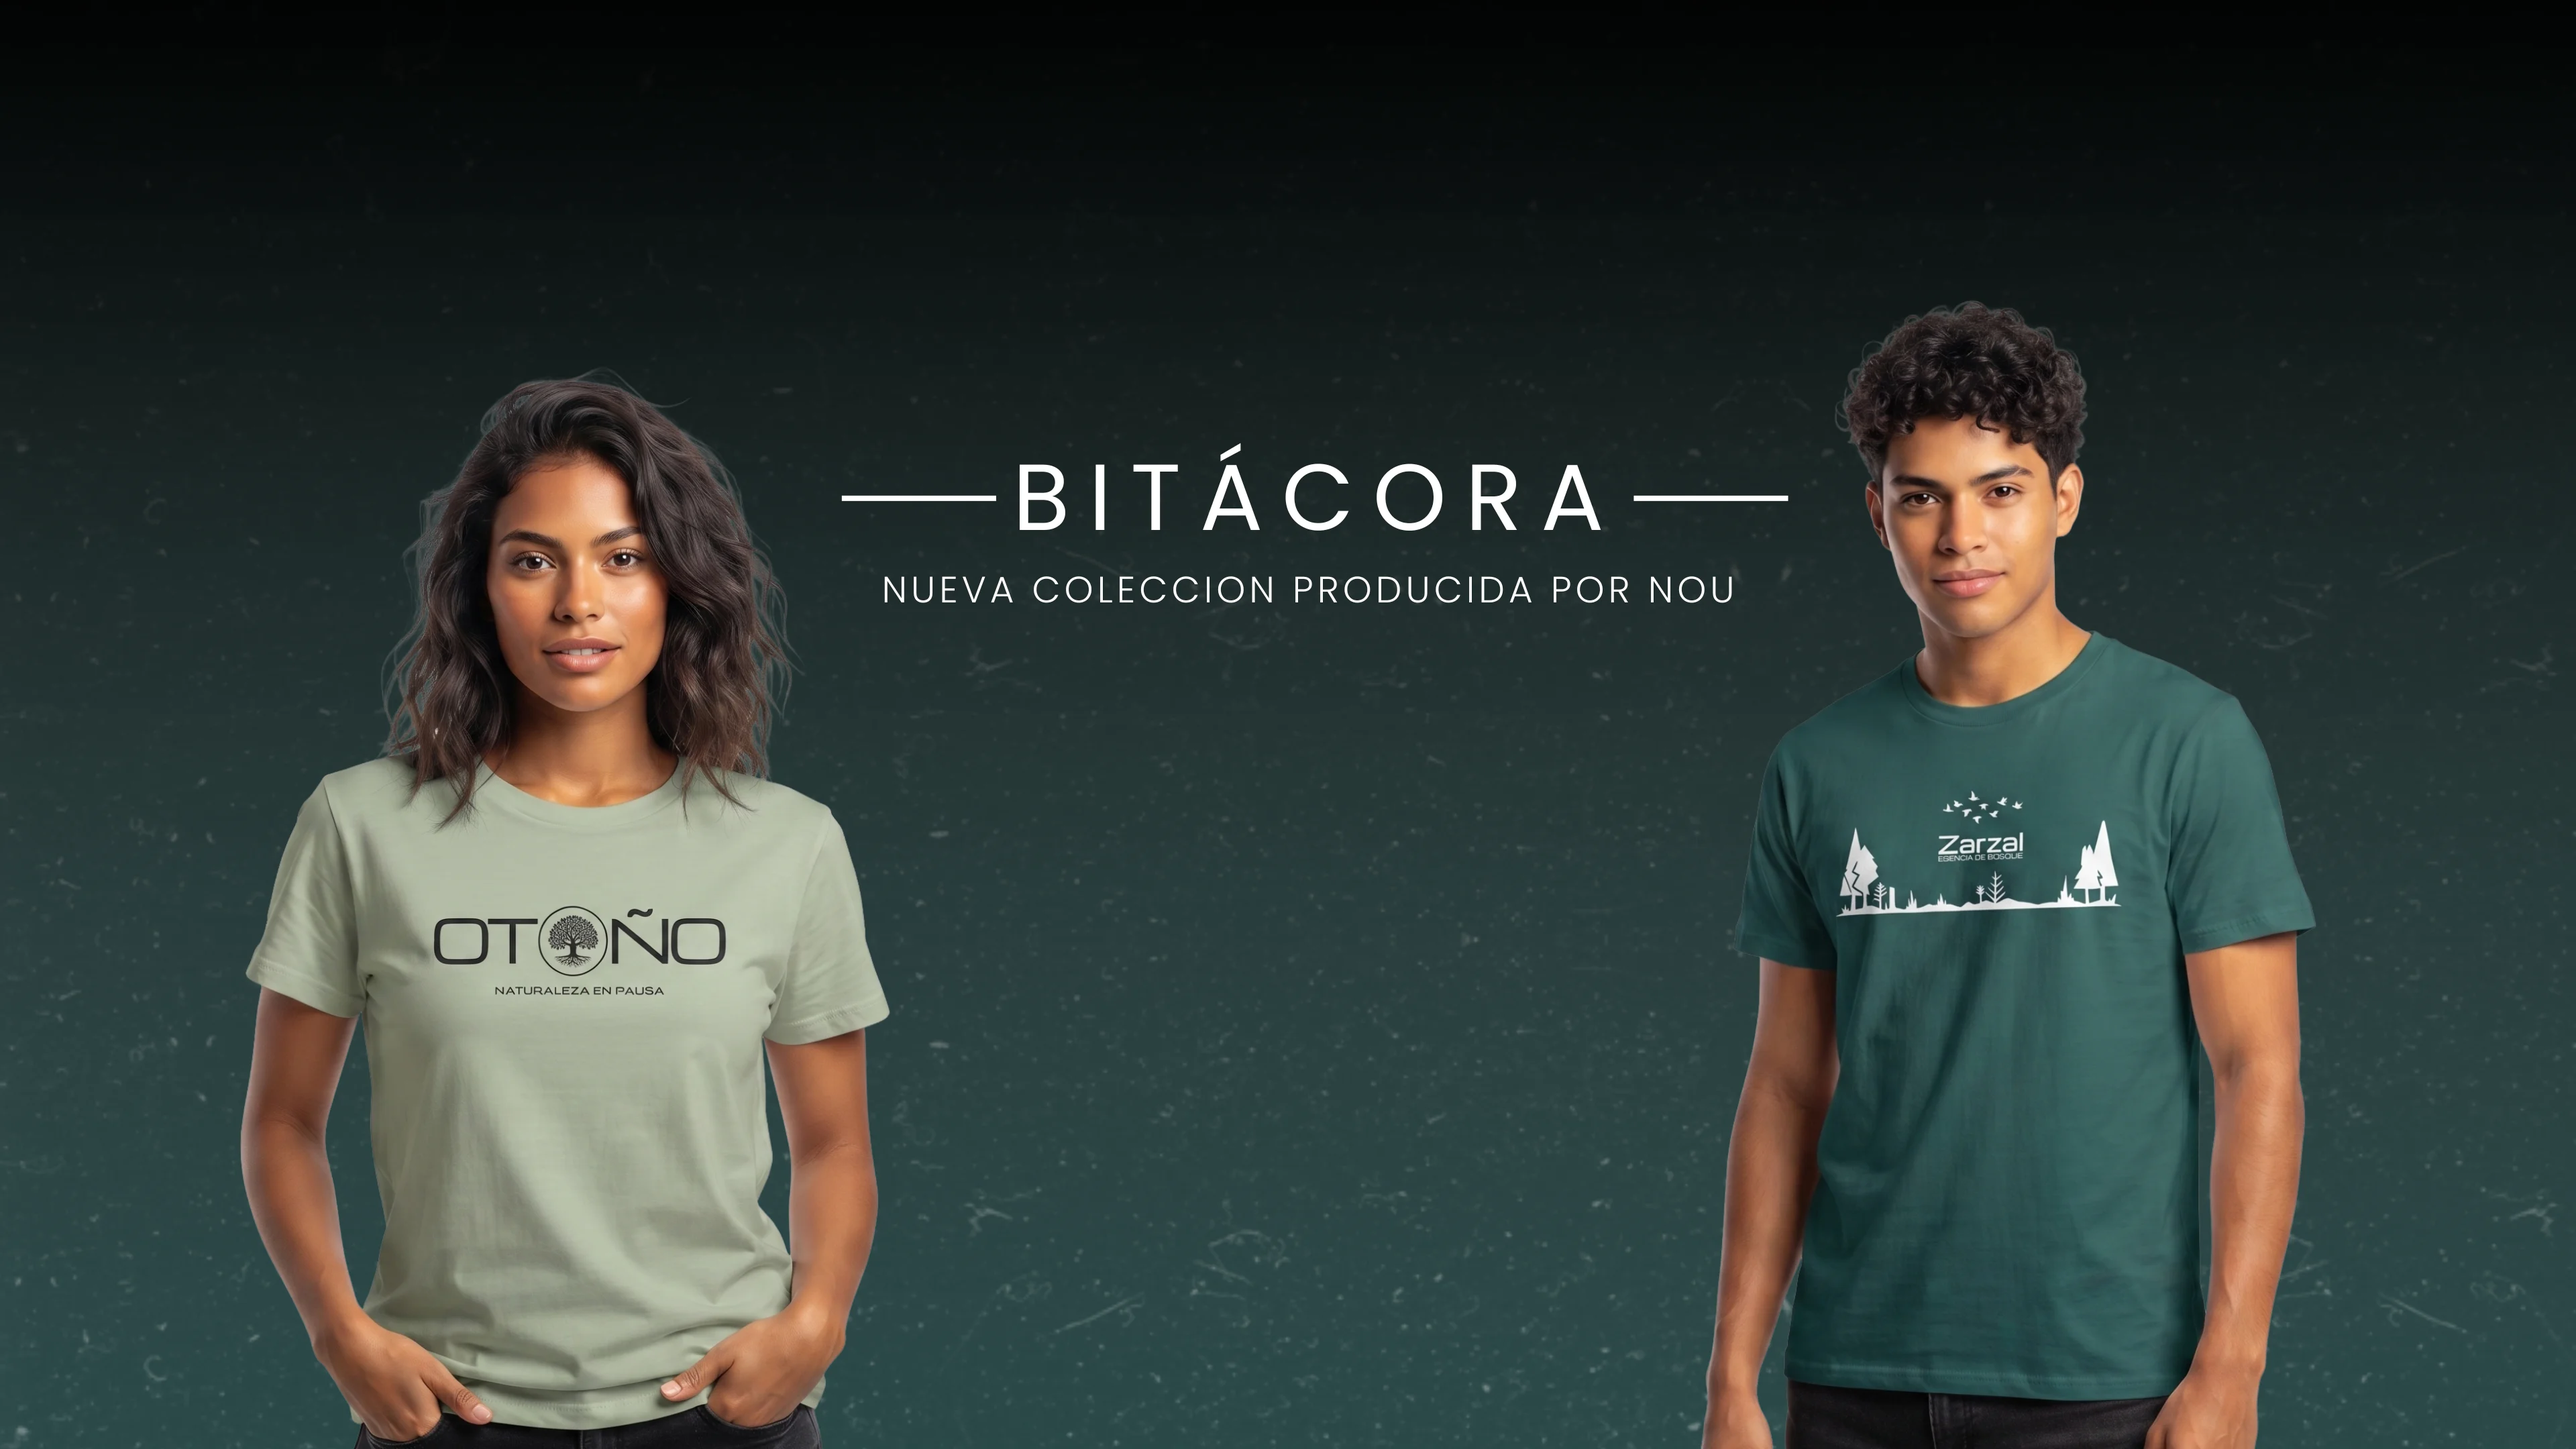
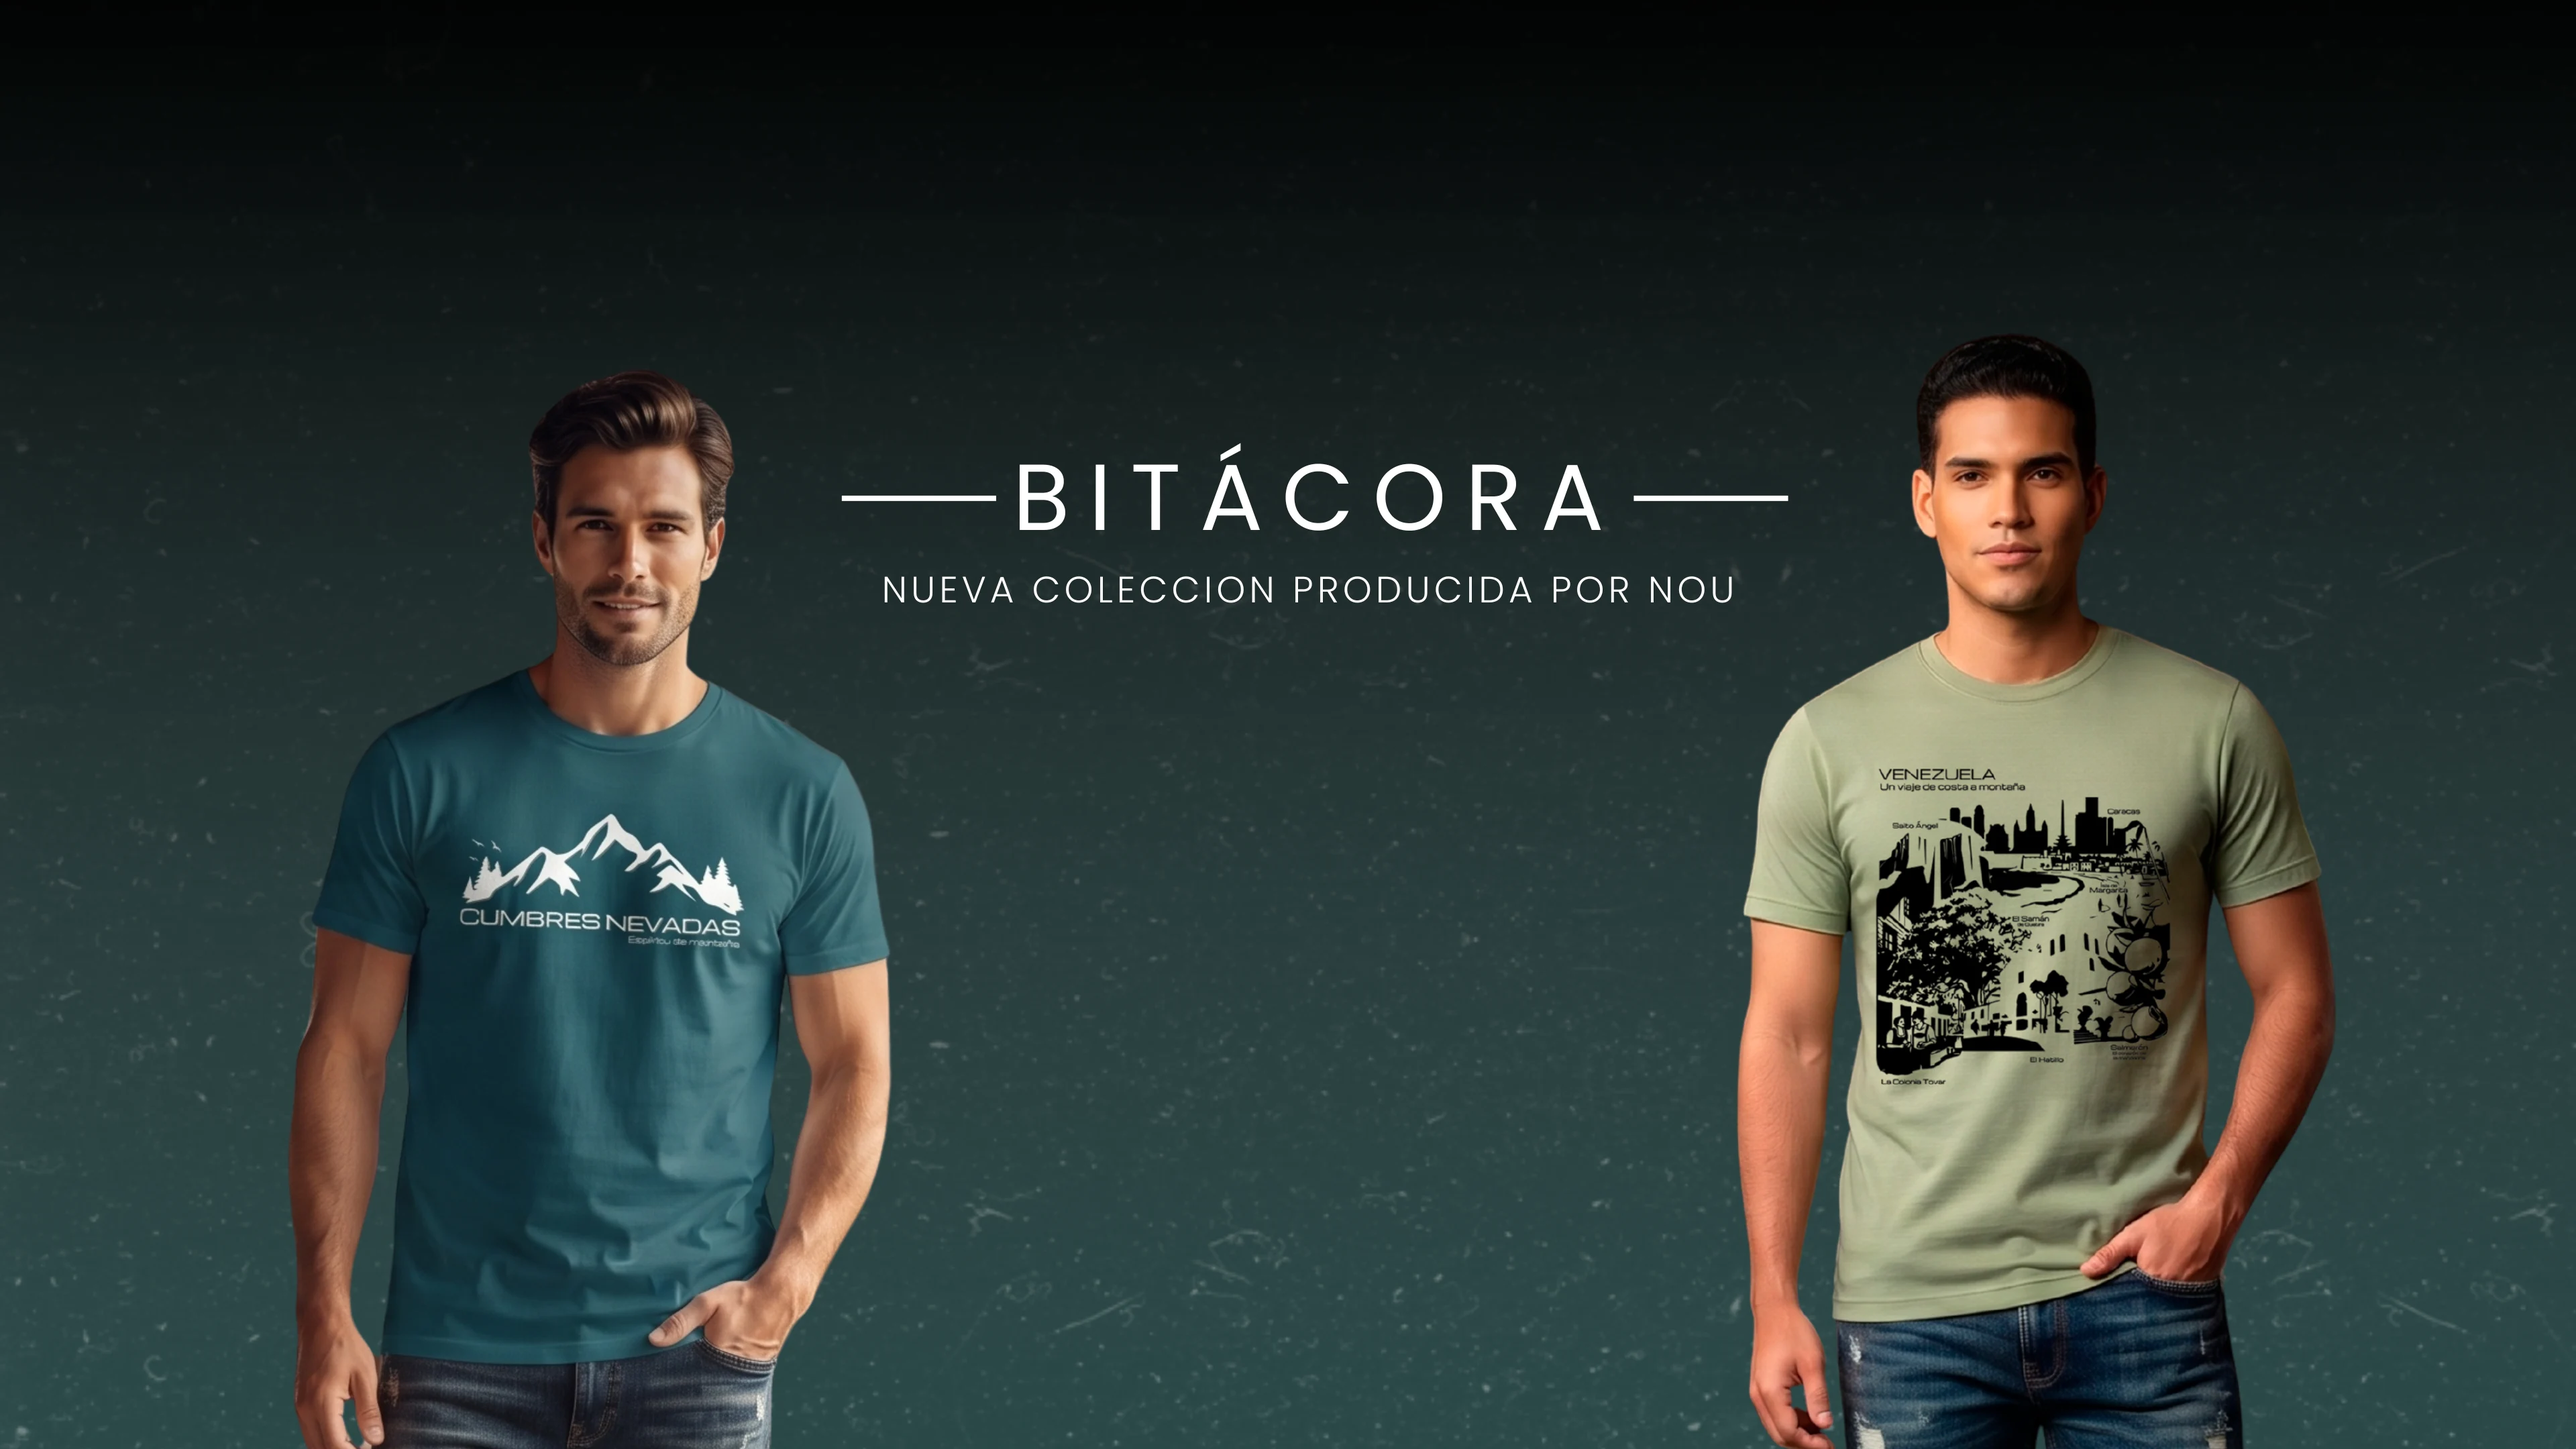
Cambio de imagenes cinta y hero

Changed region(s): [[0.0938, 0.2481, 0.3438, 1.0], [0.6562, 0.1861, 0.9062, 1.0]]

diff --git a/index.html b/index.html
@@ -195,7 +195,7 @@
         </section>
 
         <section class="cinta-telas">
-            <img src="assets/cinta-telas.png" alt="Publicidad" class="img-cinta">
+            <img src="assets/cinta-telas.webp" alt="Publicidad" class="img-cinta">
         </section>
 
         <section class="newsletter-section">
@@ -214,7 +214,7 @@
 
         <section id="personalizadas" class="customizer-section">
 
-            
+
             <div class="header-custom-personalizadas">
                 <!-- Contenedor para la imagen, al que le daremos forma circular -->
                 <div class="fox-container">

diff --git a/style.css b/style.css
@@ -1187,7 +1187,7 @@ footer {
 /* --- Adaptación para Móviles --- */
 @media (max-width: 768px) {    
     .img-cinta {
-        content: url('assets/cinta-telas-v.png');
+        content: url('assets/cinta-telas-v.webp');
         
     }
 }
